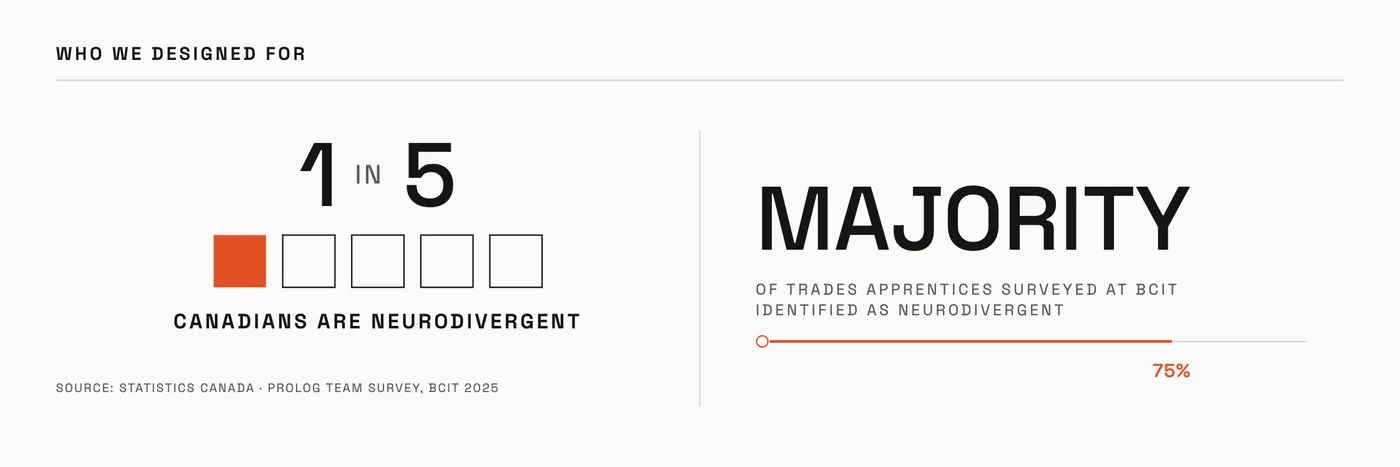
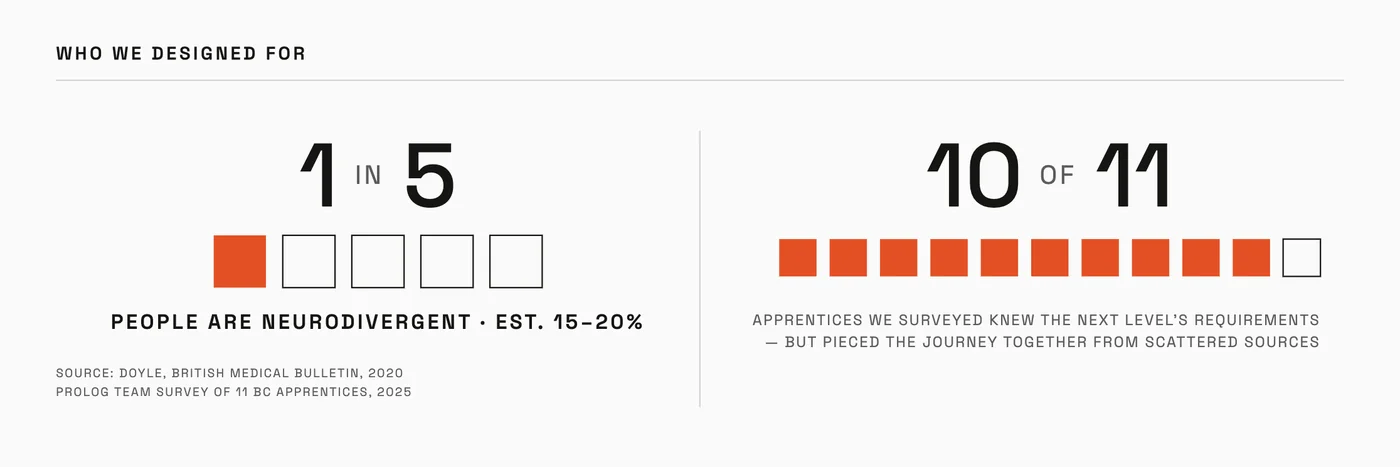
Swap in the revised who-we-designed-for figure; fill the survey count
The updated graphic carries the real numbers (1-in-5 prevalence with
its source; 10 of 11 surveyed apprentices piecing the journey from
scattered sources), so the context paragraph's survey now reads
"11 apprentices at BCIT".

Claude-Session: https://claude.ai/code/session_01Sd3ocUiFGXccpfGr2QGCEH

diff --git a/site/src/data/projects.js b/site/src/data/projects.js
@@ -114,7 +114,7 @@ export const PROJECTS = [
           },
           {
             type: "p",
-            text: "One in five Canadians is neurodivergent — in our survey of apprentices at BCIT, a majority identified as such — yet the system remains rigid and text-heavy. For them especially, an already demanding pathway becomes a navigation problem.",
+            text: "One in five Canadians is neurodivergent — in our survey of 11 apprentices at BCIT, a majority identified as such — yet the system remains rigid and text-heavy. For them especially, an already demanding pathway becomes a navigation problem.",
           },
           { type: "figure", graphic: "prolog-audience" },
         ],
